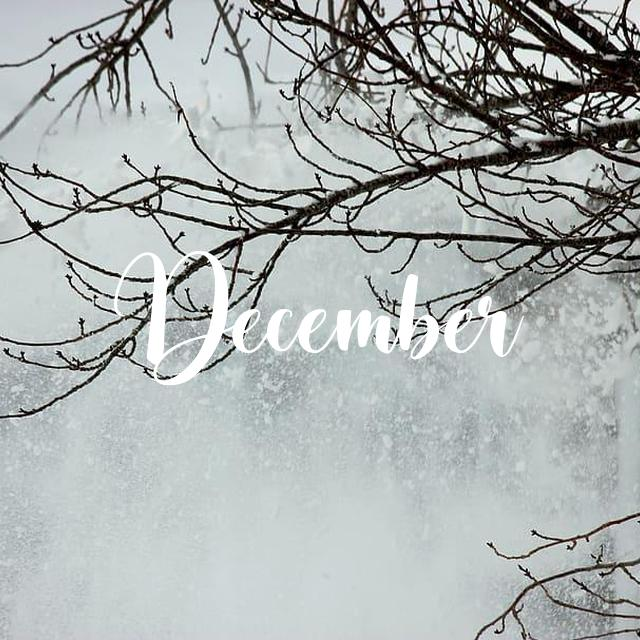
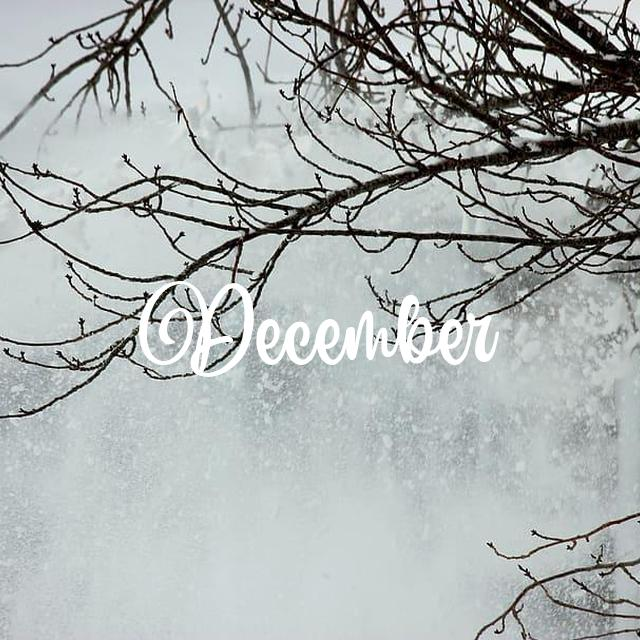
testrun

Changed region(s): [[0.1875, 0.375, 0.8125, 0.625], [0.1562, 0.4375, 0.1875, 0.5]]

diff --git a/spotifyBackup.py b/spotifyBackup.py
@@ -141,7 +141,7 @@ def generate_cover(query):
     print("[INFO] Downloaded dataset")
     print("[INFO] Generating Thumbnail...")
     font_type = "dataset/fonts/" + random.choice(os.listdir("dataset/fonts/"))
-    font = ImageFont.truetype(font_type, 130, encoding="unic")
+    font = ImageFont.truetype(font_type, 140, encoding="unic")
     img = Image.open("dataset/asset.jpg")
 
     draw = ImageDraw.Draw(img)
